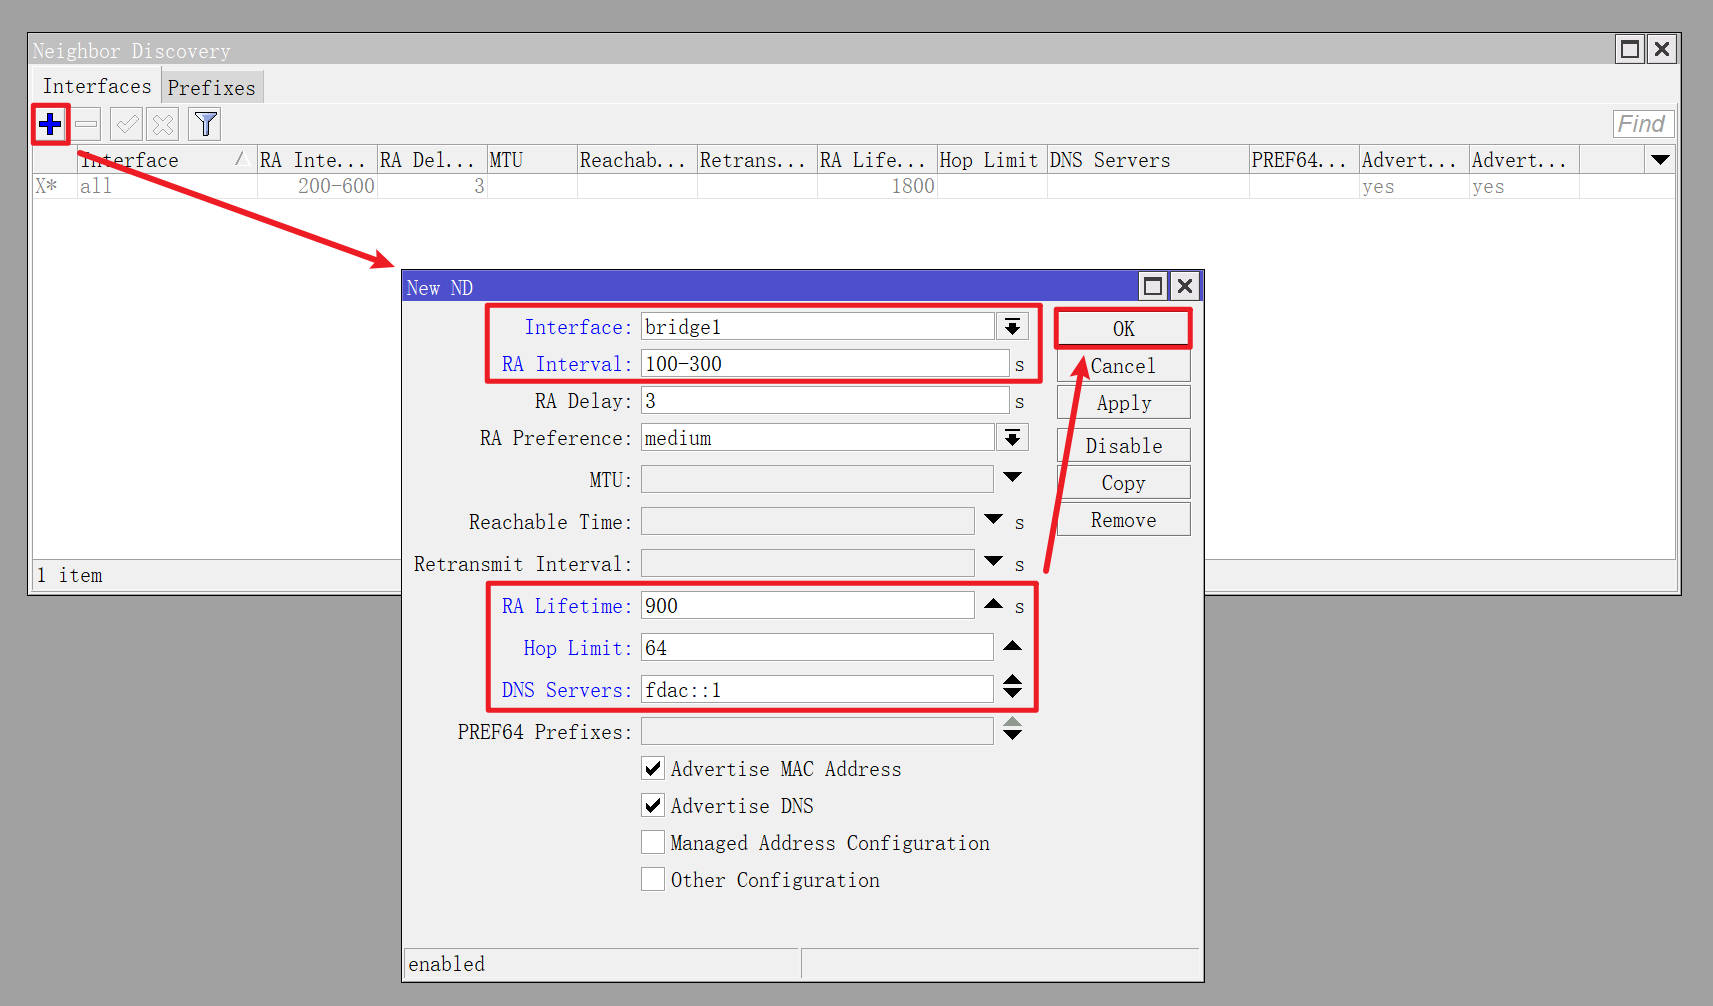
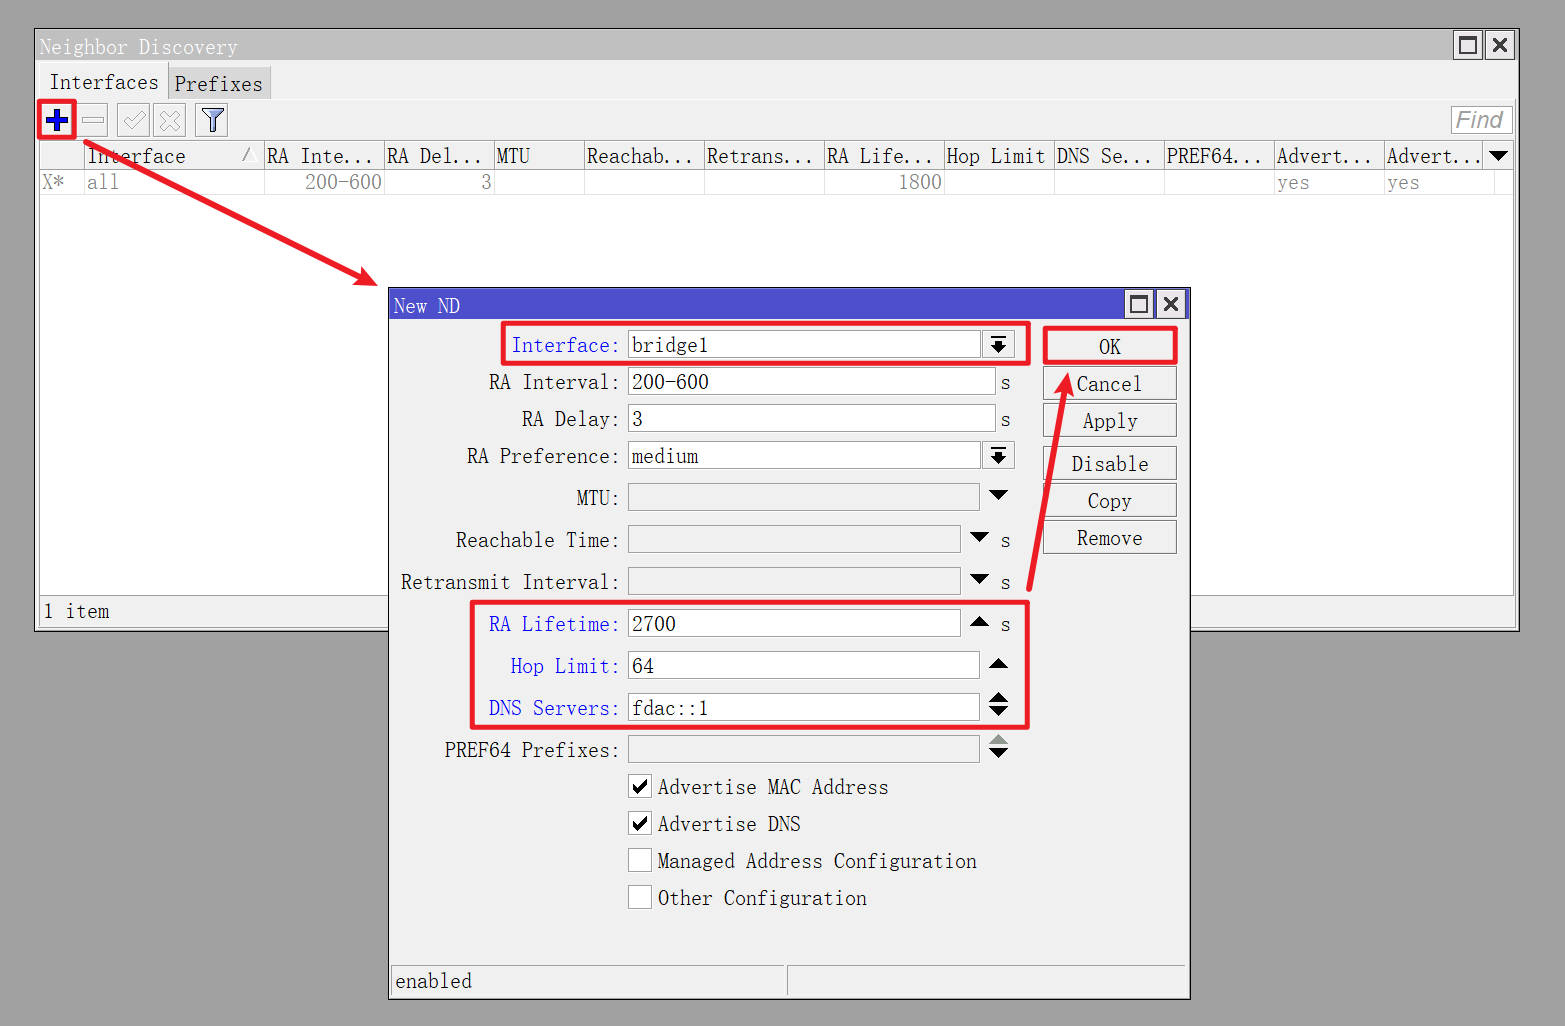
同步更新

Changed region(s): [[0.0, 0.0, 0.9815, 0.9861]]

diff --git a/09.设置IPv6.md b/09.设置IPv6.md
@@ -120,22 +120,16 @@
 
 这里可以看 `Prefix` 列表中的 `fdac::/64` 被标记为 `D` ，表示该条目为 “自动动态生成” 条目。  
 
-点击 `Default` ，修改 `Prefix` 的有效期。  
+根据 [RFC9096 - Improving the Reaction of Customer Edge Routers to IPv6 Renumbering Events](https://www.rfc-editor.org/rfc/rfc9096) 修改 `Prefix` 的默认参数。  
 
-![ND默认设置](img/p09/wb_nd_default.jpeg)
-
-根据 [Systemd.Network](https://systemd.network/systemd.network.html#%5BIPv6Prefix%5D%20Section%20Options) 中的描述：  
-
-> Preferred and valid lifetimes for the prefix measured in seconds.   
-> PreferredLifetimeSec= defaults to 1800 seconds (30 minutes) and   
-> ValidLifetimeSec= defaults to 3600 seconds (one hour).  
-
-经过一段时间的测试，将 `Preferred Lifetime` 设置为 `4` 小时，将 `Valid Lifetime` 设置为 `6` 小时较为可靠。  
+点击 `Default` ，将 `Valid Lifetime` 设置为 `90` 分钟，将 `Preferred Lifetime` 设置为 `45` 分钟。  
 
 |参数|值|说明|
 |--|--|--|
-|Valid Lifetime|`06:00:00`|IPv6 地址最大有效期|
-|Preferred Lifetime|`04:00:00`|IPv6 地址建议有效期|
+|Valid Lifetime|`01:30:00`|IPv6 地址最大有效期|
+|Preferred Lifetime|`00:45:00`|IPv6 地址建议有效期|
+
+![ND默认设置](img/p09/wb_nd_default.jpeg)
 
 ### 3.2.设置 ND 通告
 
@@ -152,8 +146,8 @@
 |参数|值|说明|
 |--|--|--|
 |Interface|`bridge1`|选择 `ND` 通告使用的接口|
-|RA Interval|`100-300`|设置 `ND` 通告的时间间隔，时间单位为秒|
-|RA Lifetime|`900`|设置 `ND` 通告的生存周期，时间单位为秒|
+|RA Interval|`200-600`|设置 `ND` 通告的时间间隔，时间单位为秒|
+|RA Lifetime|`2700`|设置 `ND` 通告的生存周期，时间单位为秒|
 |Hop Limit|`64`|缺省情况下，由设备初始发送 IPv6 单播报文的跳数限制是 64|
 |DNS Servers|`fdac::1`|`ND` 通告的 IPv6 的 DNS 服务器地址|
 |Advertise MAC Address| **建议勾选** |`ND` 通告中将包含接口的 MAC 地址信息|
@@ -179,8 +173,8 @@
 
 在 `Servers` 处增加国内知名的 DNS 服务提供商的 IPv6 地址。  
 
-- 腾讯云 DNSPod 的 IPv6 地址为：`2402:4e00::` 和 `2402:4e00:1::` 。  
-- 阿里云 AliDNS 的 IPv6 地址为：`2400:3200::1` 和 `2400:3200:baba::1` 。  
+- 腾讯云 DNSPod 的 IPv6 地址为：`2402:4e00::` 和 `2402:4e00:1::`  
+- 阿里云 AliDNS 的 IPv6 地址为：`2400:3200::1` 和 `2400:3200:baba::1`  
 
 ![设置RouterOS的上游DNS](img/p09/wb_system_dns.png)
 
